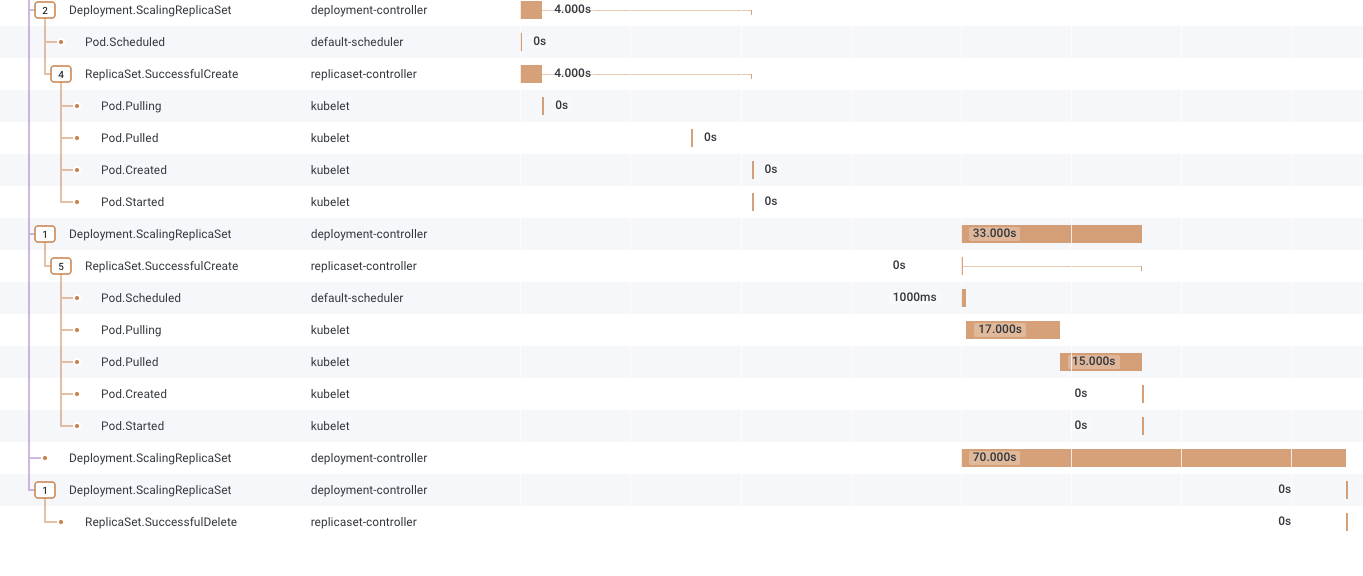
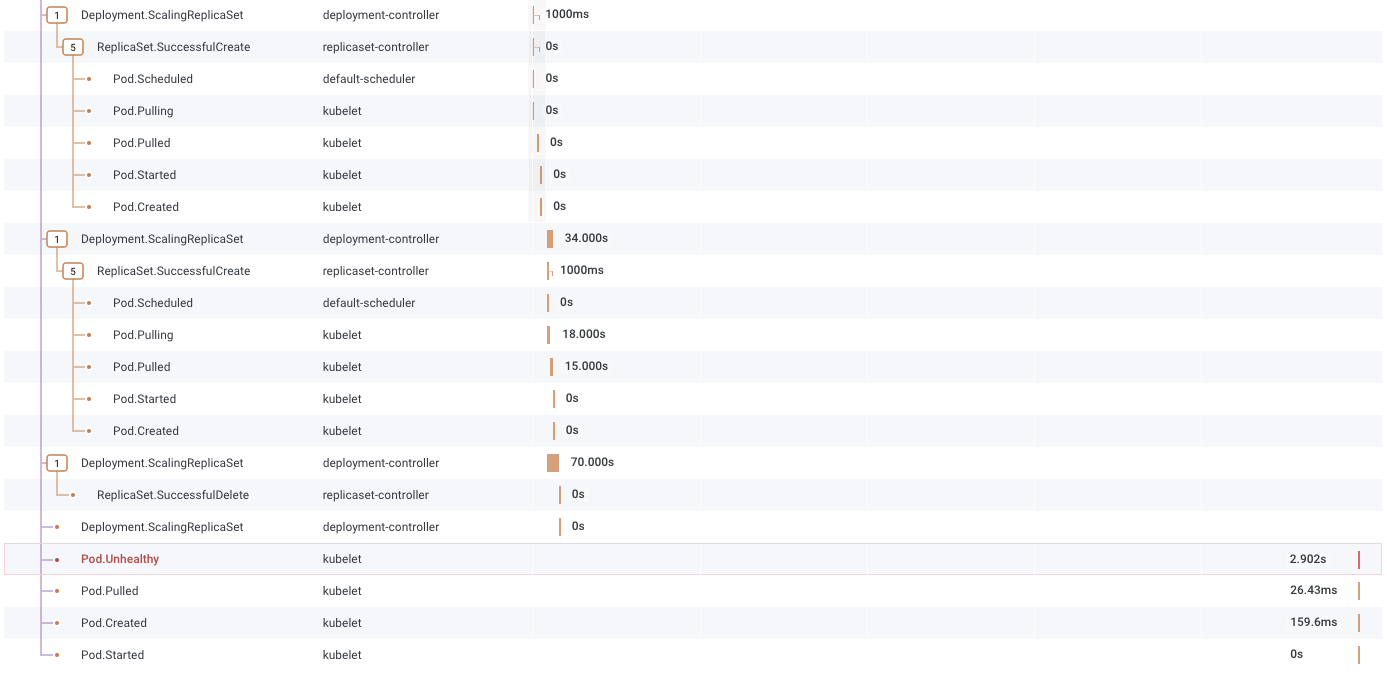
include meaningful example

diff --git a/README.md b/README.md
@@ -7,12 +7,12 @@ Originally forked from https://github.com/ismith/kspan, itself a fork of https:/
 Most Kubernetes components produce Events when something interesting happens.
 This program turns those Events into OpenTelemetry Spans, joining them up by causality and grouping them together into Traces.
 
-Example: rollout of a Deployment of two Pods:
+Example: scaling up a replicaset which eventually leads to an error that can be used as a trigger.
 
 ![image](example.png)
 
-The picture was generated by `kspan` and Honeycomb; it is a visualisation of the events generated from a pod deployment.
-`kspan` will identify the lifecycle of the Deployment, and the lifecycle of each container within the Pod.
+The picture was generated by `kspan` and Honeycomb; it is a visualisation of the events generated from scaling up a deployment.
+`kspan` will identify the lifecycle of the Deployment, and the lifecycle of the ReplicaSet used to control the Pods.
 
 We start with this concrete information:
  - Each Event has an Involved Object, e.g. when Kubelet sends a "Started" event, the Involved Object is a Pod.
